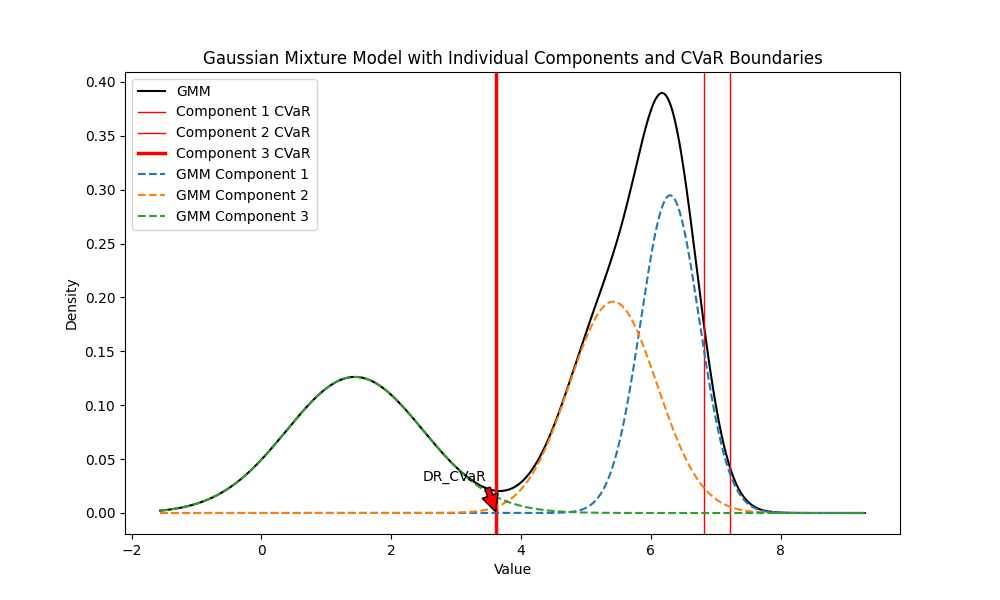
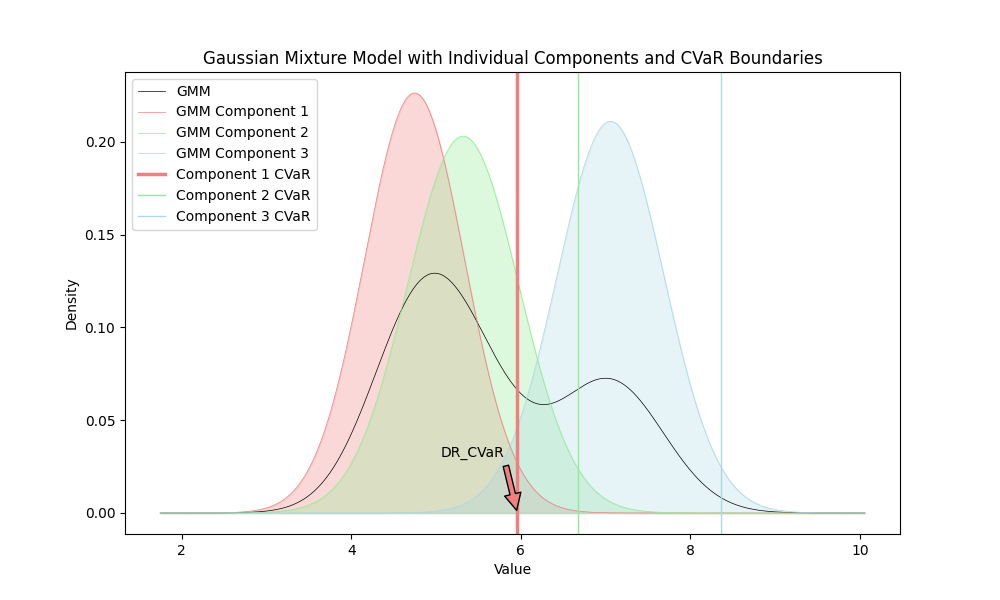
minor change

diff --git a/distributionally_robust_cvar.py b/distributionally_robust_cvar.py
@@ -53,22 +53,26 @@ def plot_gmm_with_cvar(gmm, cvar_values, dr_cvar_index):
     responsibilities = gmm.predict_proba(x)
     pdf = np.exp(logprob)
     pdf_individual = responsibilities * pdf[:, np.newaxis]
-
+    pdf = pdf * (1 / 3)
+    
     plt.figure(figsize=(10, 6))
-    plt.plot(x, pdf, '-k', label='GMM')
-
-    for i, cvar in enumerate(cvar_values):
-        color = 'red'
-        linestyle = '-'
-        linewidth = 1 if i != dr_cvar_index else 2.5
-        plt.axvline(cvar, color=color, linestyle=linestyle, linewidth=linewidth, label=f'Component {i+1} CVaR')
-        if i == dr_cvar_index:
-            plt.annotate('DR_CVaR', xy=(cvar, 0.0), xytext=(cvar - 0.15, 0.03),
-                            arrowprops=dict(facecolor=color, shrink=0.05),
-                            horizontalalignment='right')
+    plt.plot(x, pdf, '-k', label='GMM', linewidth=0.5)
+    component_colors = ['lightcoral', 'lightgreen', 'lightblue']
 
     for i in range(pdf_individual.shape[1]):
-        plt.plot(x, pdf_individual[:, i], '--', label=f'GMM Component {i+1}')
+        line, = plt.plot(x, pdf_individual[:, i], '-', label=f'GMM Component {i+1}', color=component_colors[i], linewidth=0.5)
+        fill = plt.fill_between(x.flatten(), pdf_individual[:, i], color=component_colors[i], alpha=0.3)
+
+    for i, cvar in enumerate(cvar_values):
+        linestyle = '-'
+        linewidth = 1 if i != dr_cvar_index else 2.5
+        color = component_colors[i]
+        plt.axvline(cvar, color=color, linestyle=linestyle, linewidth=linewidth, label=f'Component {i+1} CVaR')
+        
+        if i == dr_cvar_index:
+            plt.annotate('DR_CVaR', xy=(cvar, 0.0), xytext=(cvar - 0.15, 0.03),
+                         arrowprops=dict(facecolor=color, shrink=0.05),
+                         horizontalalignment='right')
 
     plt.xlabel('Value')
     plt.ylabel('Density')

diff --git a/gmm_creation.py b/gmm_creation.py
@@ -35,16 +35,19 @@ def plot_gmm(gmm):
     responsibilities = gmm.predict_proba(x)
     pdf = np.exp(logprob)
     pdf_individual = responsibilities * pdf[:, np.newaxis]
+    pdf = pdf * (1 / 3)
 
     plt.figure(figsize=(10, 6))
     plt.plot(x, pdf, '-k', label='GMM')
 
+    component_colors = ['lightcoral', 'lightgreen', 'lightblue']
     for i in range(pdf_individual.shape[1]):
-        plt.plot(x, pdf_individual[:, i], '--', label=f'GMM Component {i+1}')
+        line, = plt.plot(x, pdf_individual[:, i], '-', label=f'GMM Component {i+1}', color=component_colors[i], linewidth=0.5)
+        fill = plt.fill_between(x.flatten(), pdf_individual[:, i], color=component_colors[i], alpha=0.3)
 
     plt.xlabel('Value')
     plt.ylabel('Density')
-    plt.title('Gaussian Mixture Model with Inidivual Components')
+    plt.title('Gaussian Mixture Model with Individual Components')
     plt.legend()
     plt.show()
 
